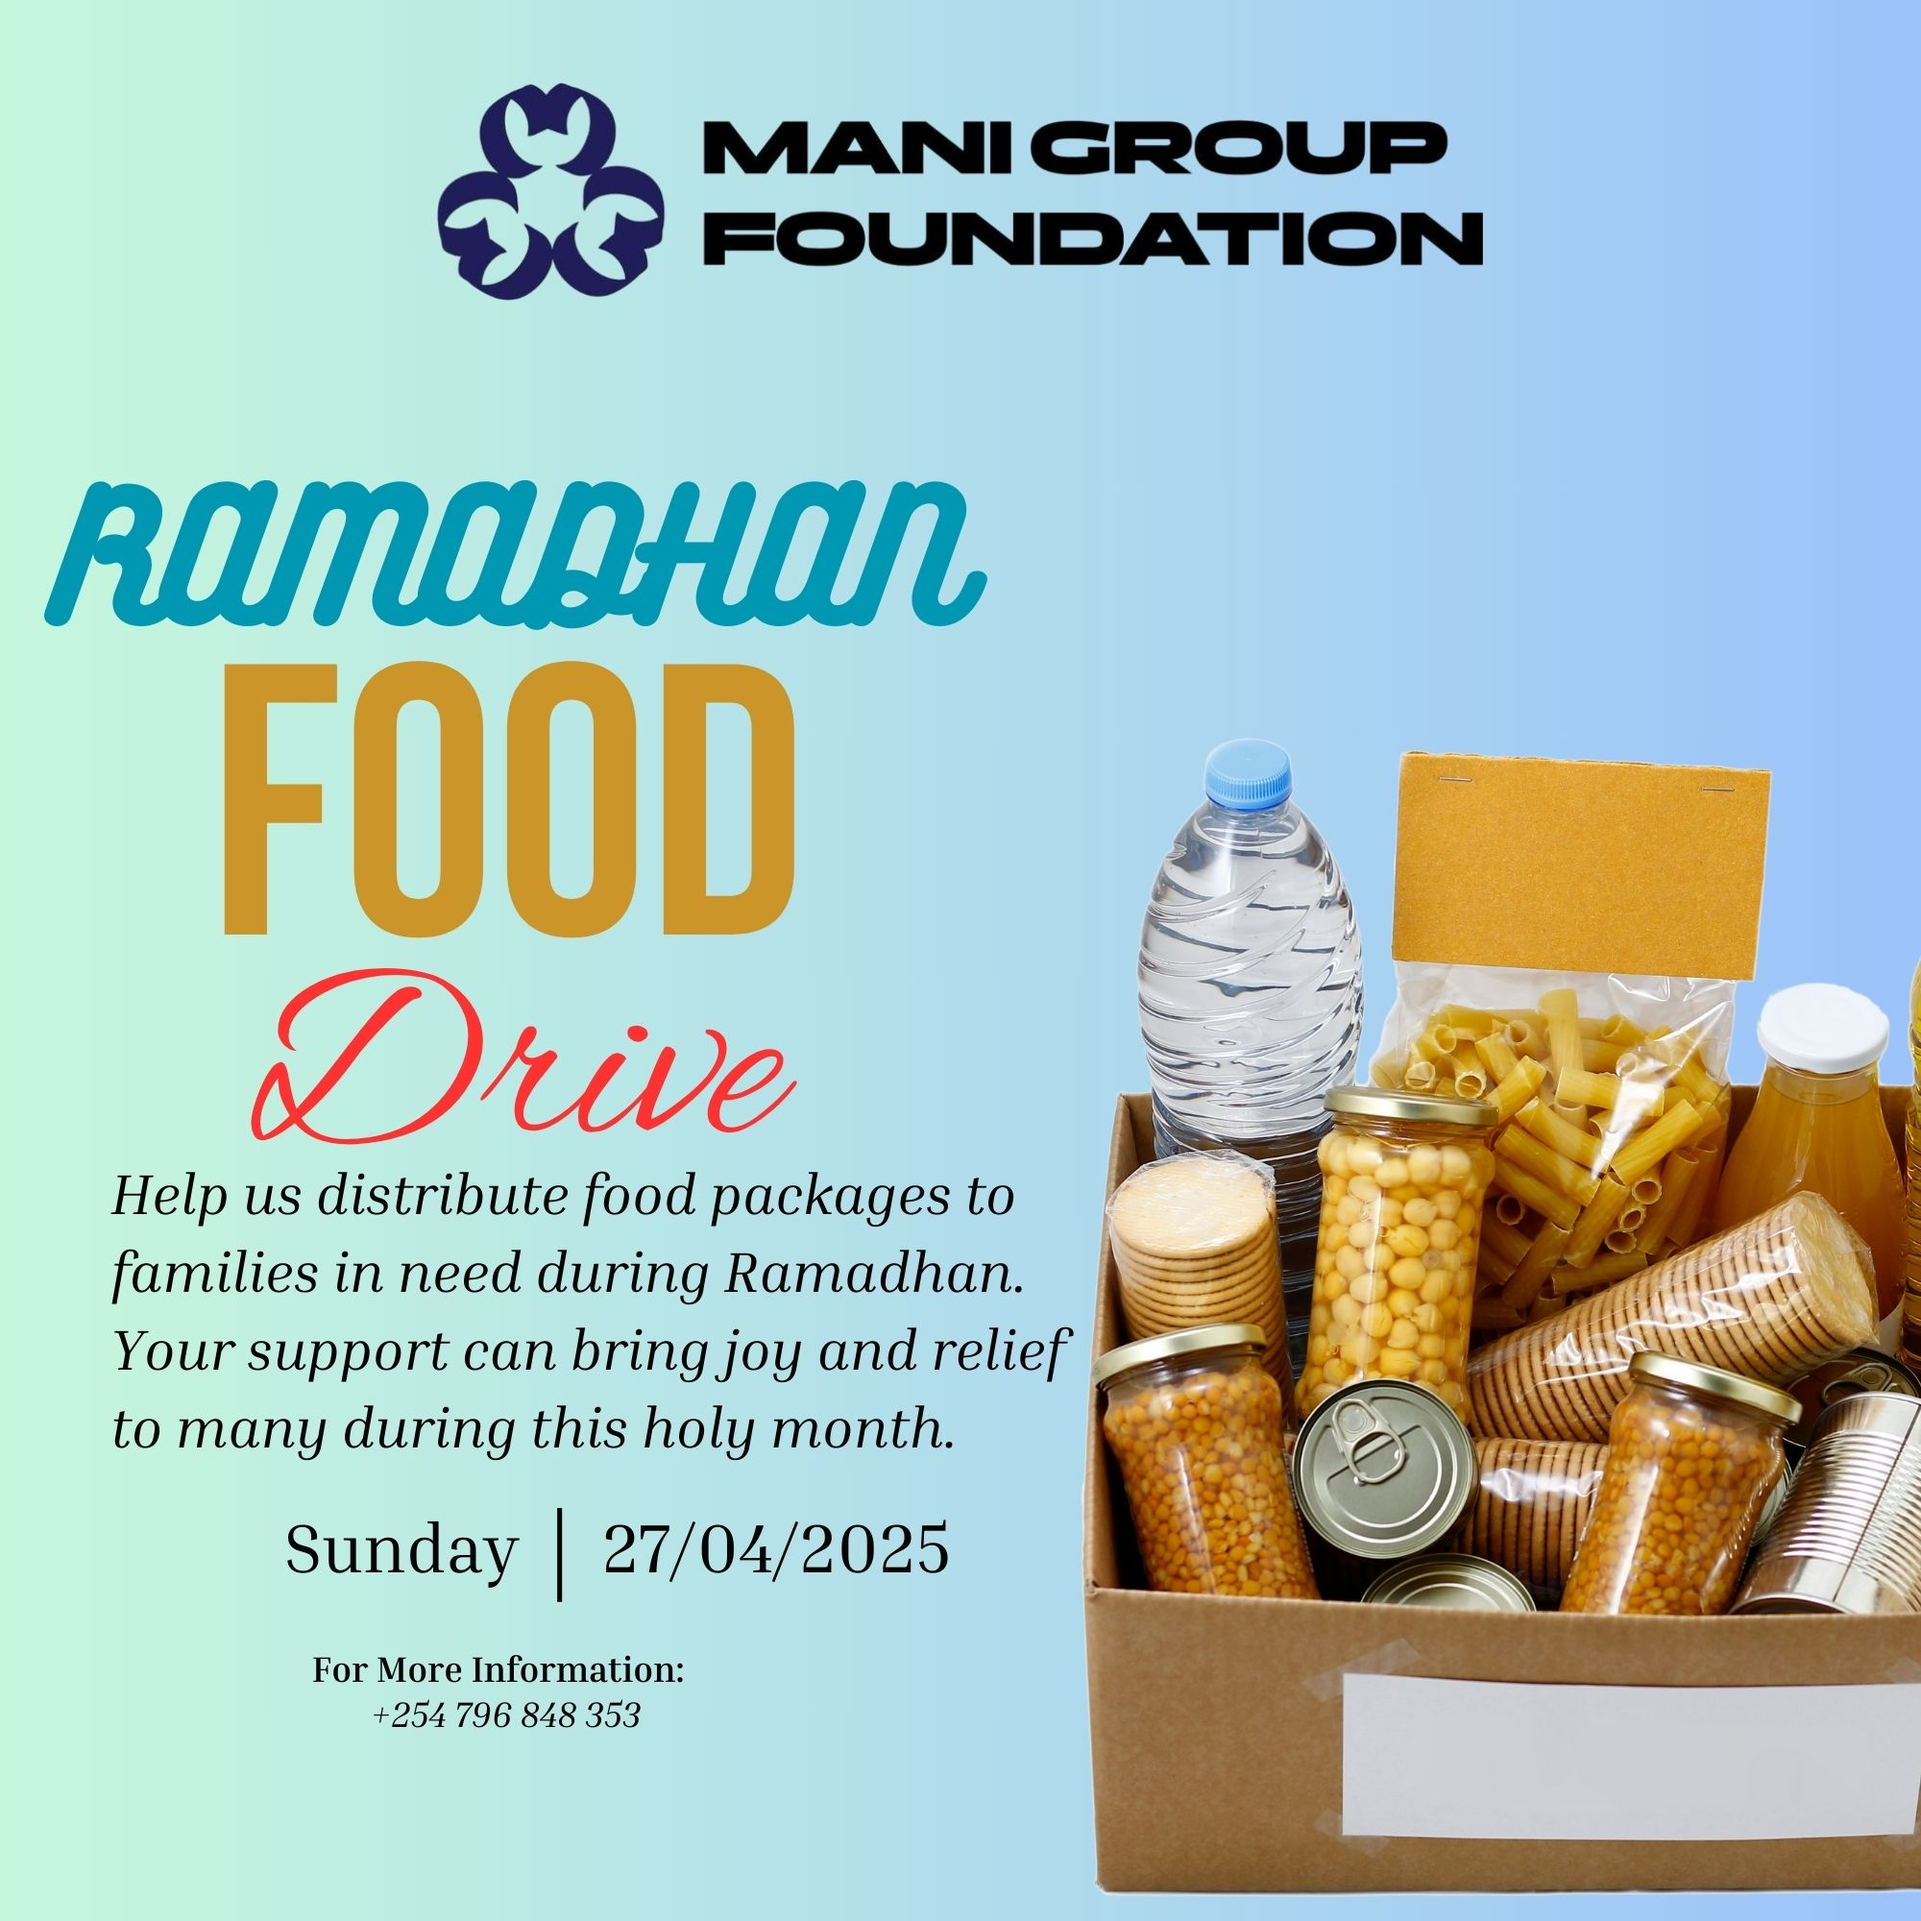
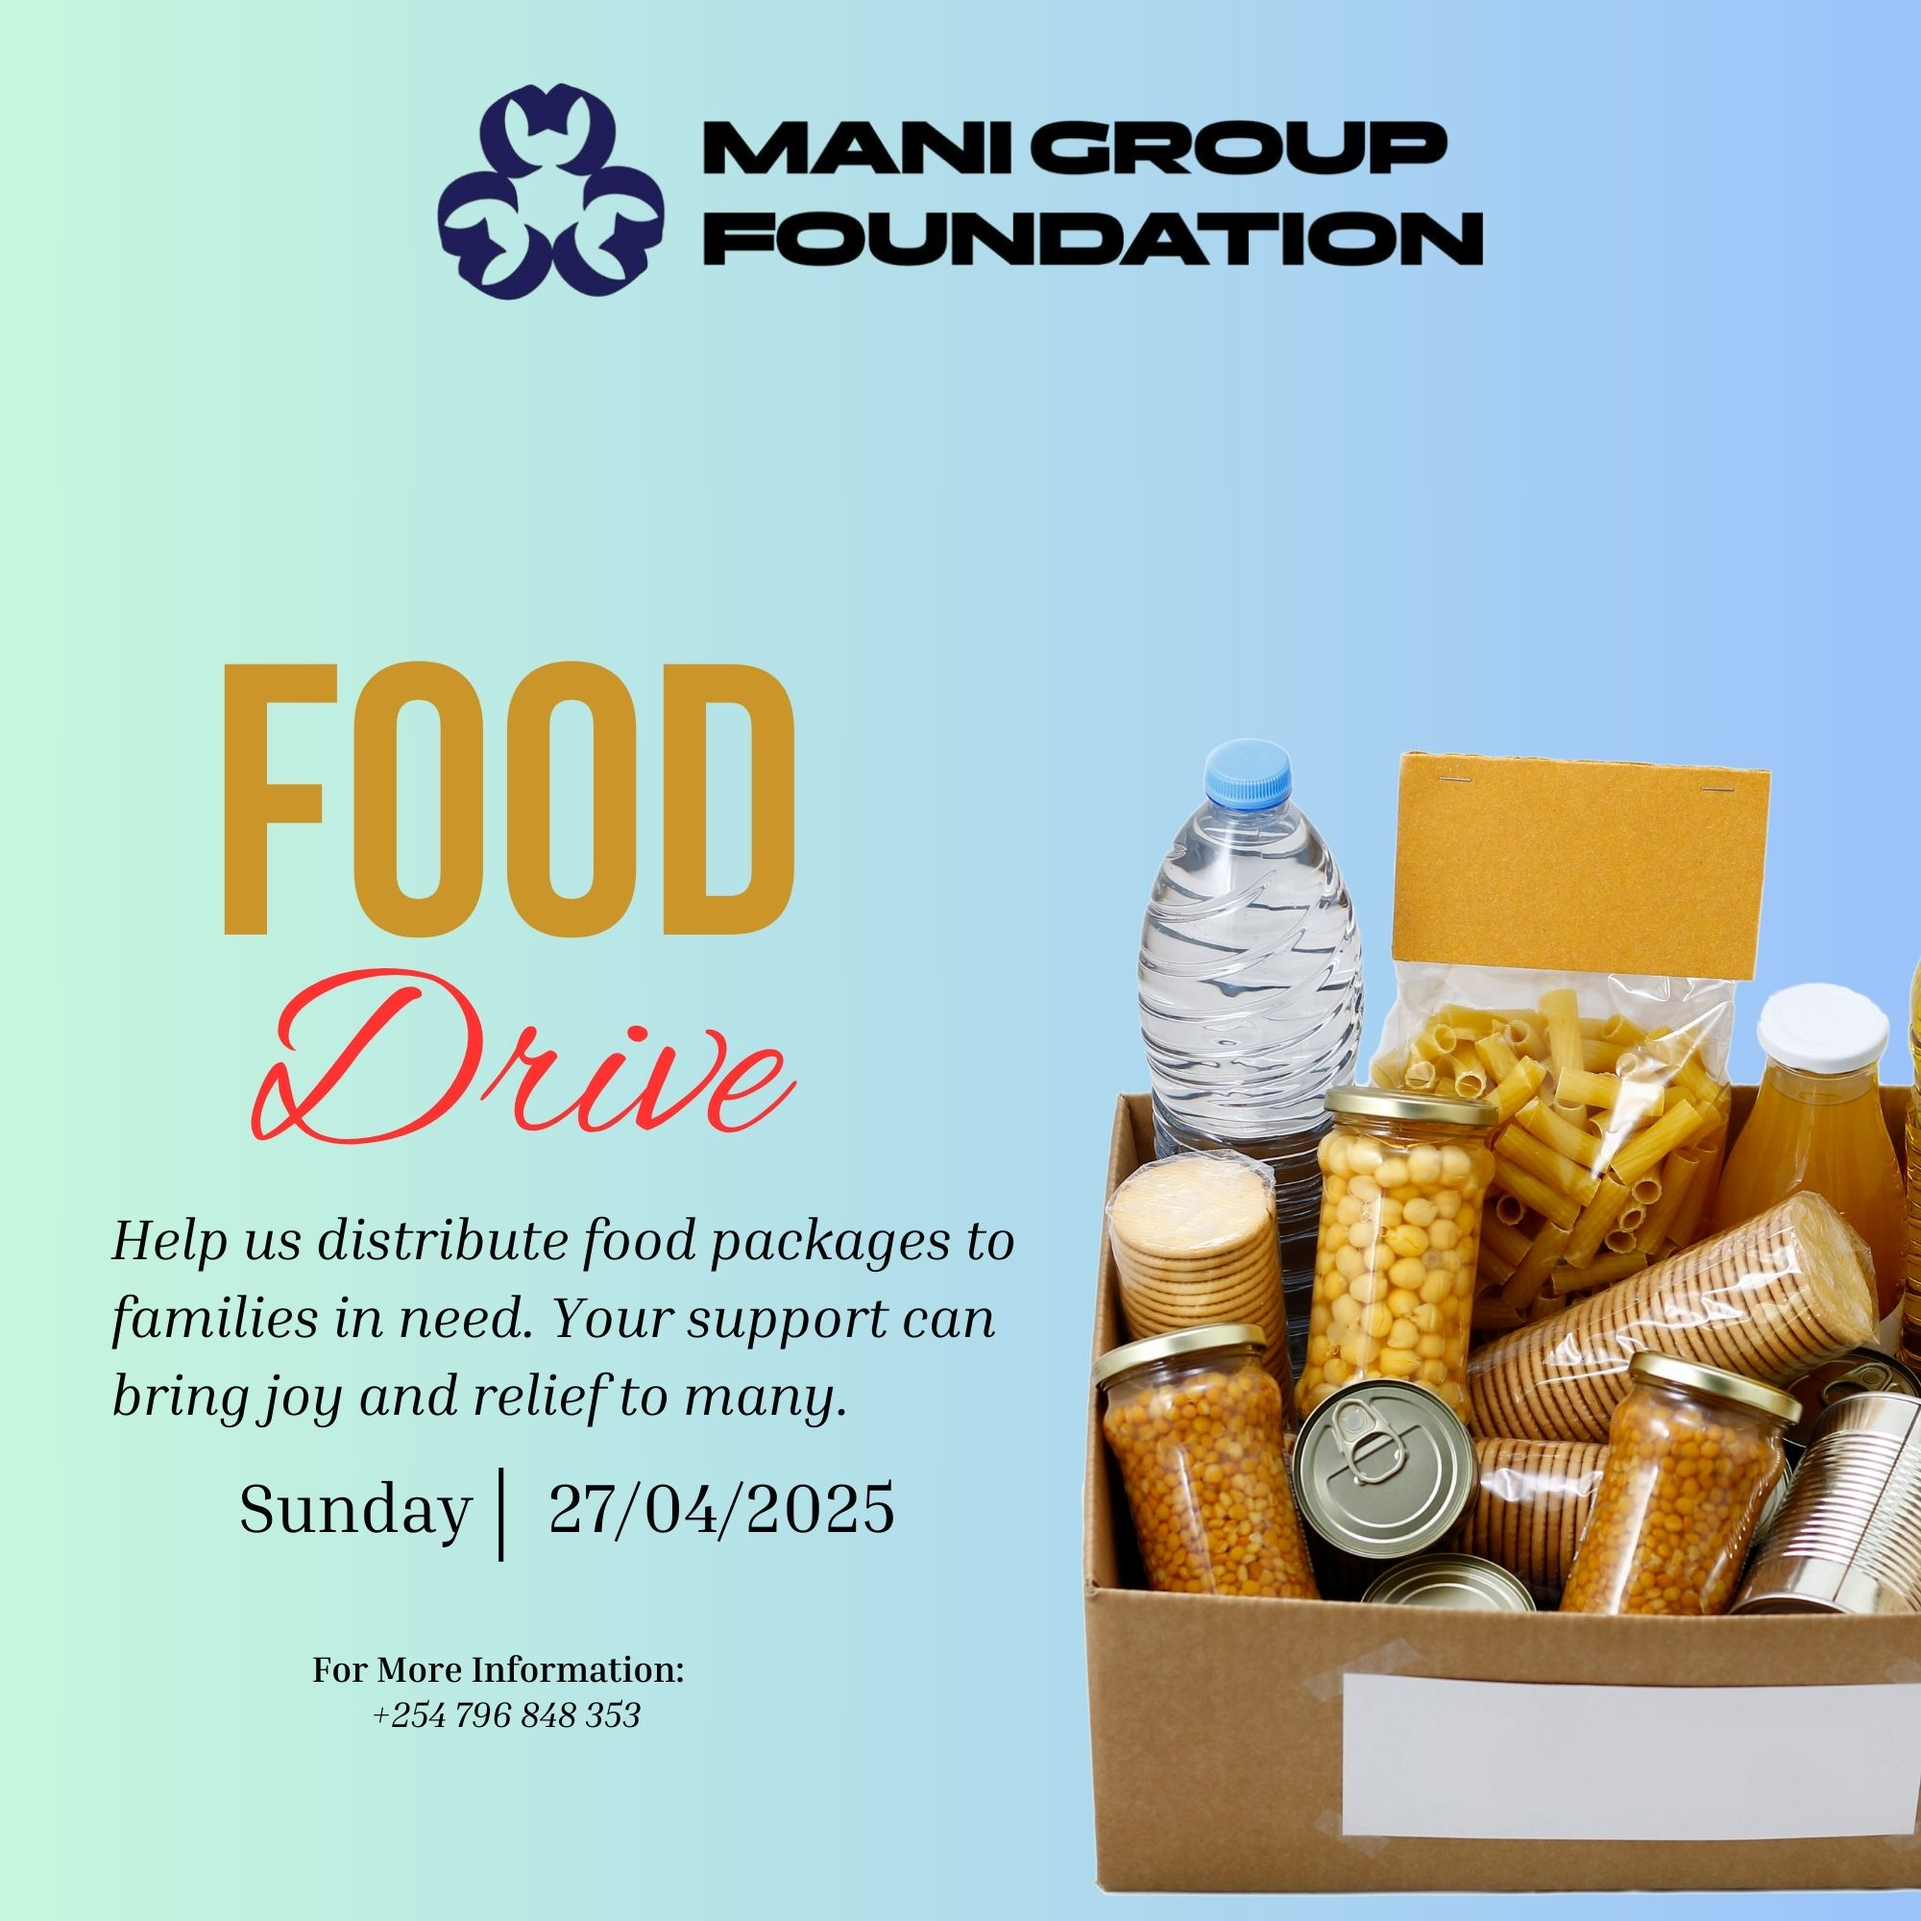
update

Changed region(s): [[0.062, 0.62, 0.558, 0.837], [0.0, 0.248, 0.527, 0.341]]

diff --git a/index.html b/index.html
@@ -327,7 +327,7 @@
             </div>
         </div> -->
 
-        <!-- Event 2: Ramadhan Food Drive -->
+        <!-- Event 2: Food Drive -->
         <div class="row g-4 event-item wow fadeIn" data-wow-delay="0.3s">
             <div class="col-3 col-lg-2 pe-0">
                 <div class="text-center border-bottom border-dark py-3 px-2">
@@ -337,14 +337,14 @@
             </div>
             <div class="col-9 col-lg-6 border-start border-dark pb-5">
                 <div class="ms-3">
-                    <h4 class="mb-3">Ramadhan Food Drive</h4>
-                    <p class="mb-4">Help us distribute food packages to families in need during Ramadhan. Your support can bring joy and relief to many during this holy month.</p>
+                    <h4 class="mb-3">Food Drive</h4>
+                    <p class="mb-4">Help us distribute food packages to families in need. Your support can bring joy and relief to many.</p>
                     
                 </div>
             </div>
             <div class="col-12 col-lg-4">
                 <div class="overflow-hidden mb-5">
-                    <img src="img/ramadan-food-drive.jpg" class="img-fluid w-100" alt="Ramadan Food Drive">
+                    <img src="img/ramadan-food-drive.jpg" class="img-fluid w-100" alt="Food Drive">
                 </div>
             </div>
         </div>
